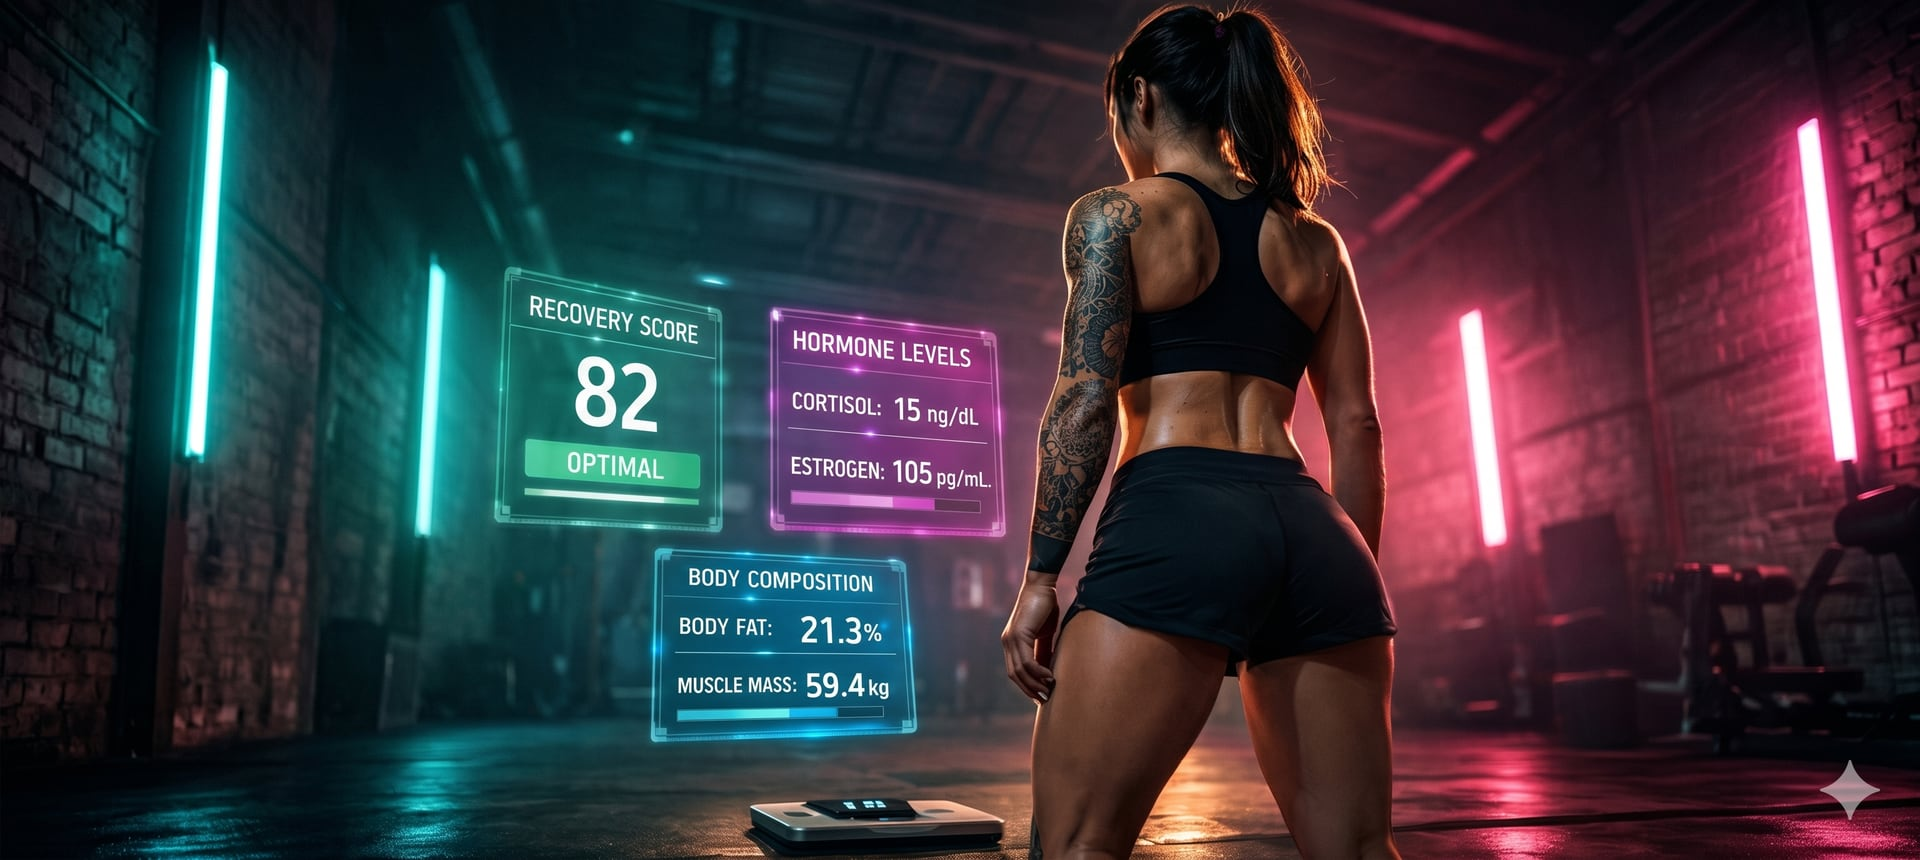
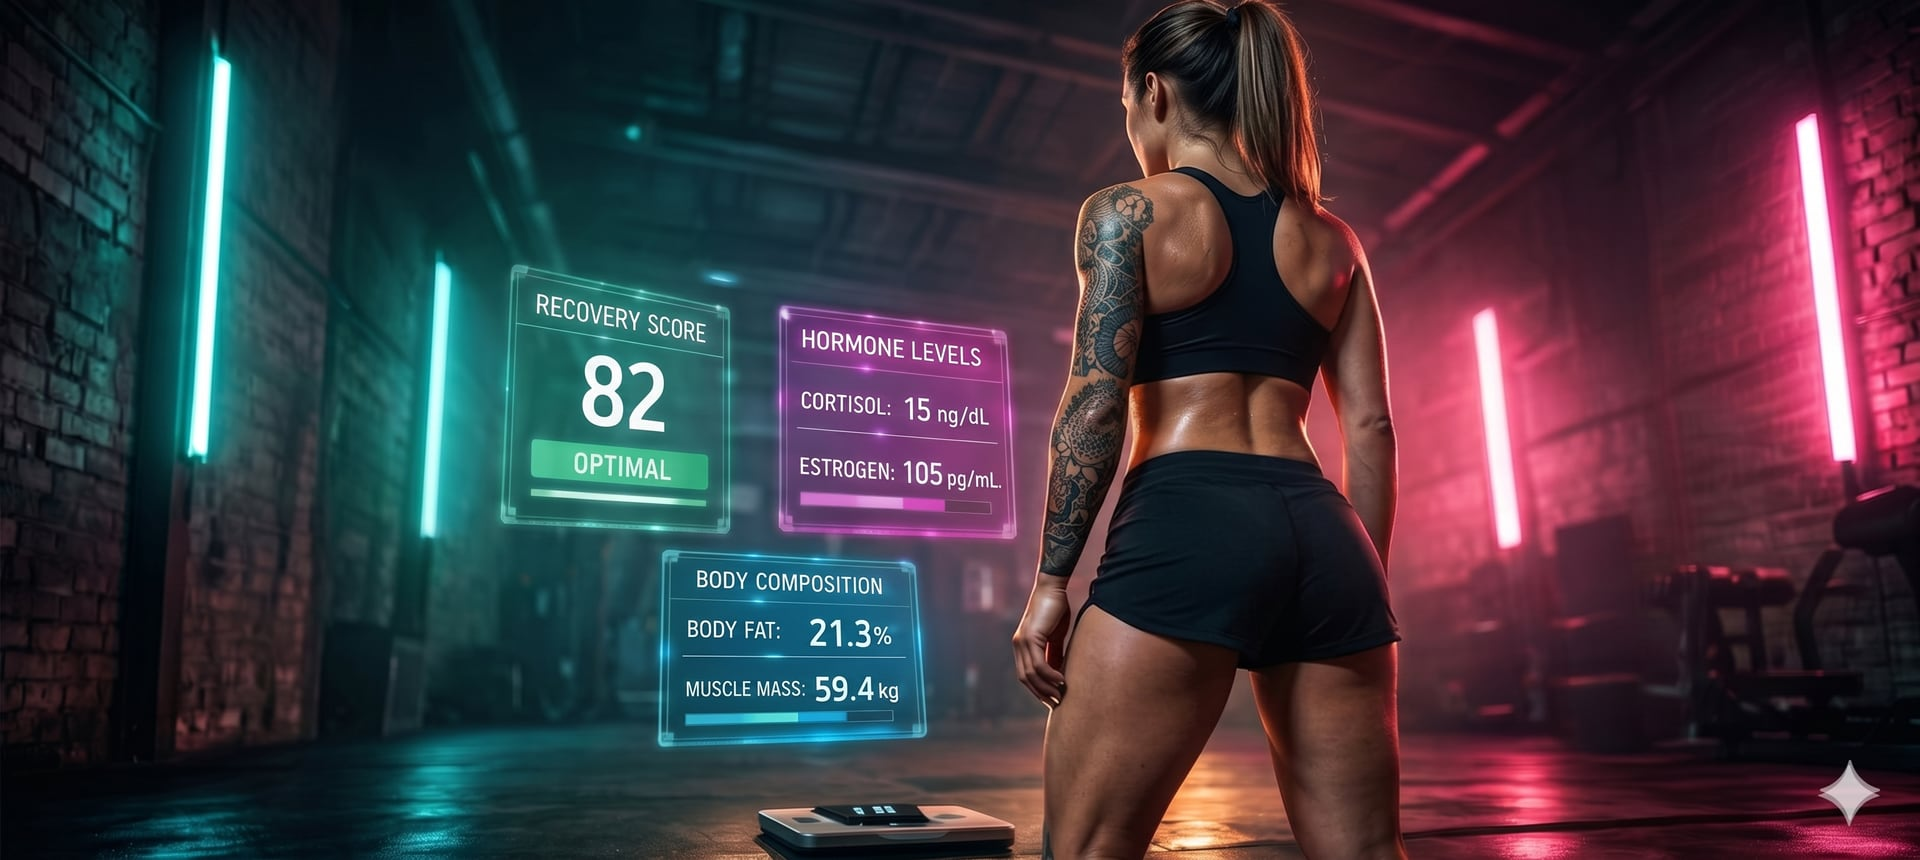
feat: photoreal peptide/nutrition heroes + center scrim so copy reads over the data panels

diff --git a/nutrition.html b/nutrition.html
@@ -111,7 +111,9 @@
   content: '';
   position: absolute;
   inset: 0;
-  background: linear-gradient(to bottom, rgba(5,7,11,0.25) 0%, rgba(5,7,11,0.55) 50%, var(--color-bg) 100%);
+  background:
+    radial-gradient(ellipse 60% 92% at 50% 46%, rgba(5,7,11,0.85) 0%, rgba(5,7,11,0.55) 48%, rgba(5,7,11,0.18) 78%, transparent 100%),
+    linear-gradient(to bottom, rgba(5,7,11,0.22) 0%, rgba(5,7,11,0.5) 60%, var(--color-bg) 100%);
   pointer-events: none;
 }
 

diff --git a/peptide-consulting.html b/peptide-consulting.html
@@ -111,7 +111,9 @@
   content: '';
   position: absolute;
   inset: 0;
-  background: linear-gradient(to bottom, rgba(5,7,11,0.3) 0%, rgba(5,7,11,0.6) 55%, var(--color-bg) 100%);
+  background:
+    radial-gradient(ellipse 62% 92% at 50% 46%, rgba(5,7,11,0.85) 0%, rgba(5,7,11,0.55) 48%, rgba(5,7,11,0.18) 78%, transparent 100%),
+    linear-gradient(to bottom, rgba(5,7,11,0.25) 0%, rgba(5,7,11,0.5) 60%, var(--color-bg) 100%);
   pointer-events: none;
 }
 
